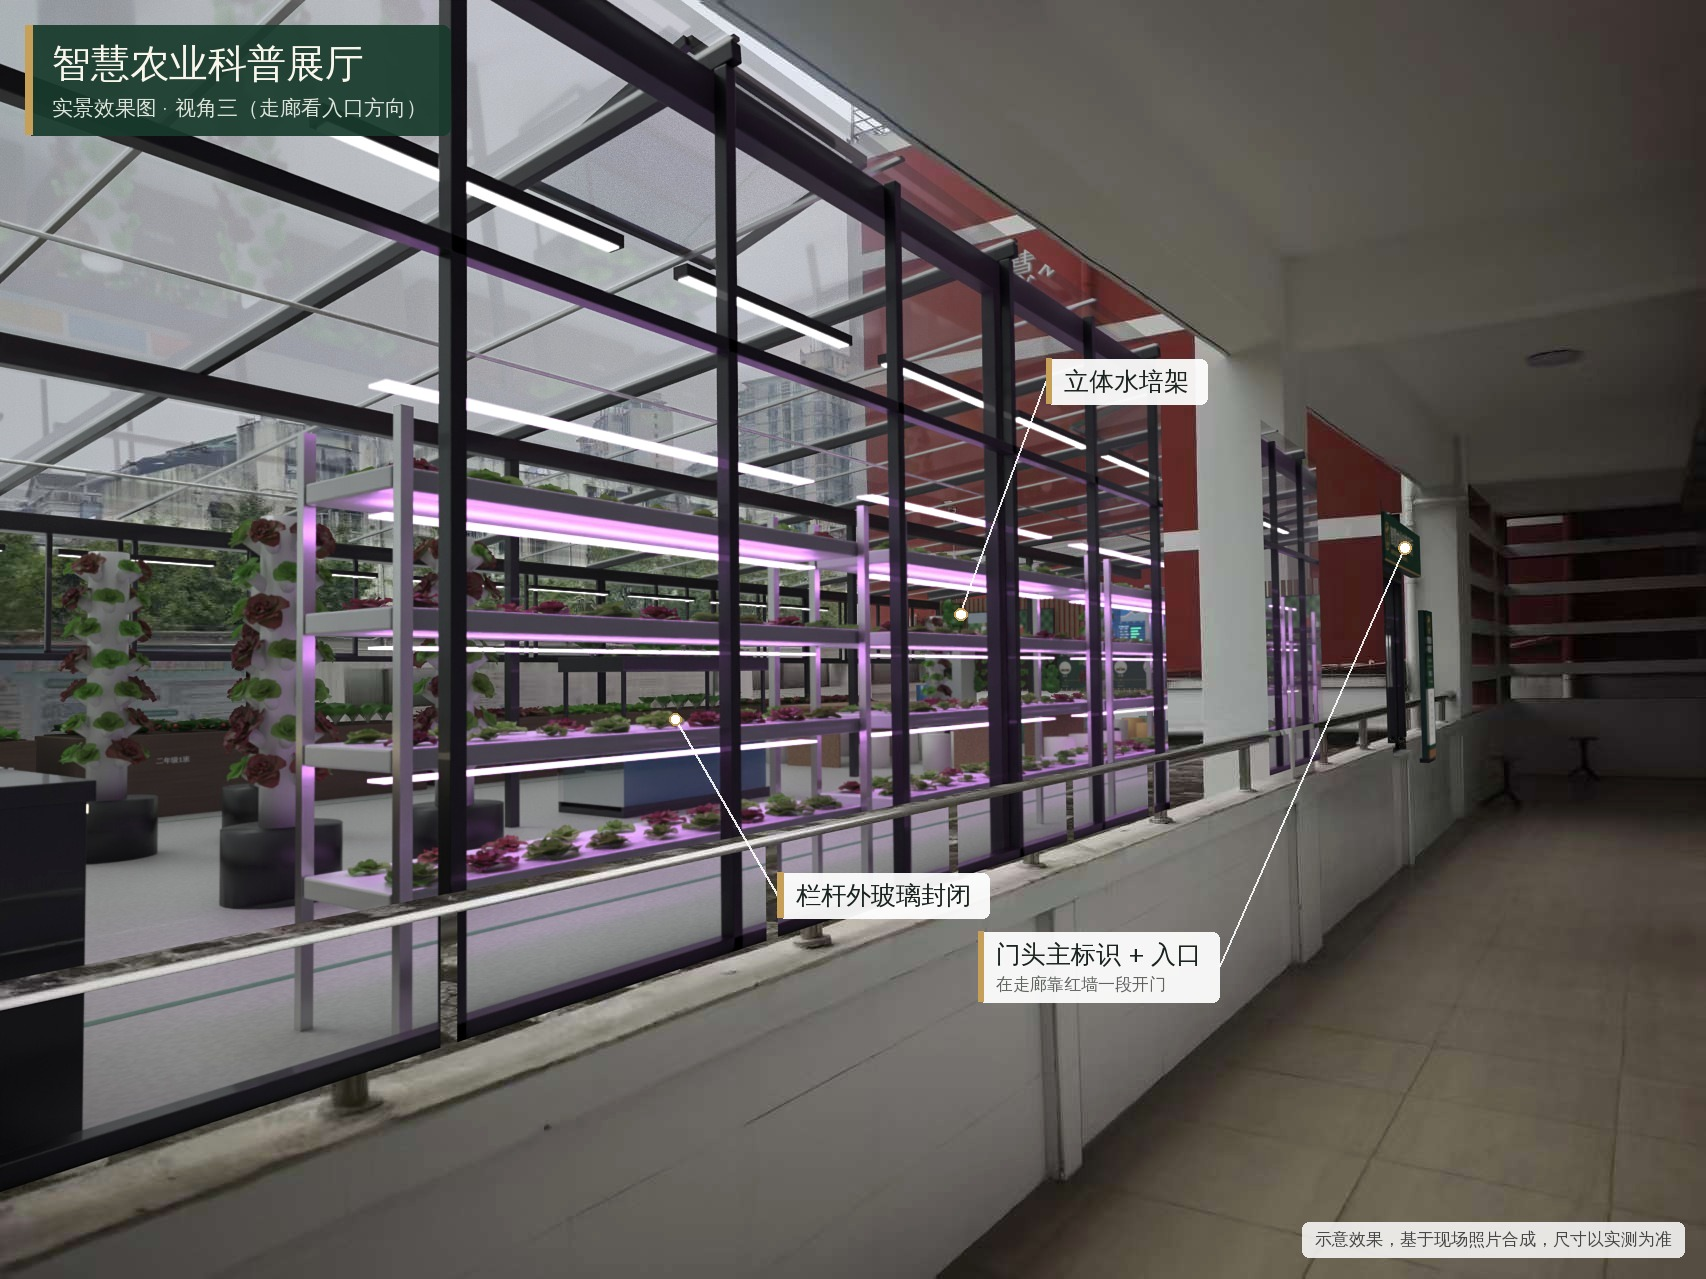
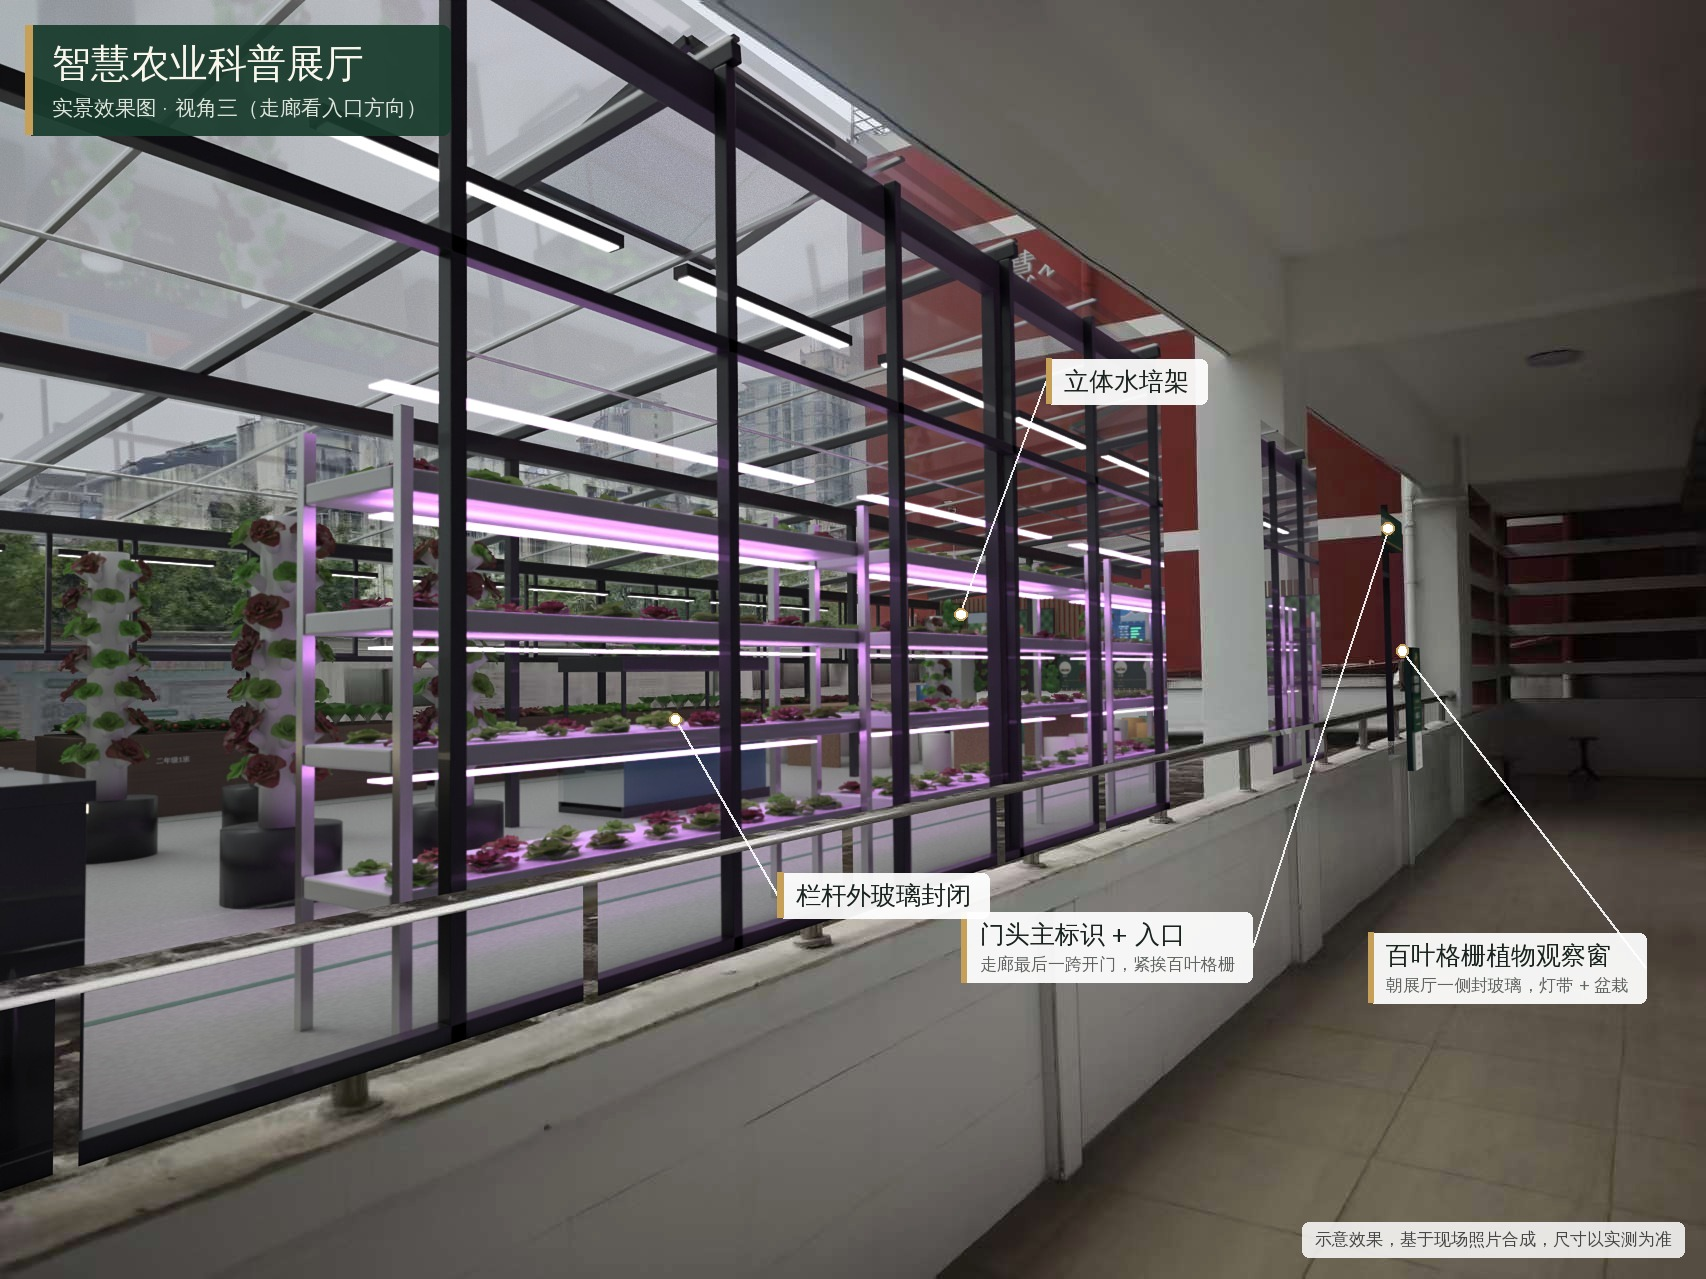
Rebuild 3D scene for the confirmed site layout
Last corridor pier at ~15.4 m with the louver section running to the
red wall (sides facing the hall, glazed on the hall side, LED strips and
potted plants), door moved to the bay before the pier with the fascia
and totem, raised platform with the other terrace, existing steel steps
and sliding gate beyond it. Re-render the photomontages, entrance,
interior, aerial and plan views; update captions, README and legend.

Claude-Session: https://claude.ai/code/session_01QT7MPbxVKdSTvMRYR4CWnz

diff --git a/smart-farm/v2/scene_v2.py b/smart-farm/v2/scene_v2.py
@@ -39,8 +39,13 @@ TEX2 = os.path.join(HERE, "tex")
 CAL = json.load(open(os.path.join(HERE, "calib.json")))
 L, W, K = 17.8, 8.5, 0.9
 Z_HI, Z_LO = 3.35, 2.6                   # roof height at corridor side (under the corridor beam) / street side
-COLS = [-3.0, 7.0, 12.0, 17.05]          # corridor columns (x), located from the corridor photos
-DOOR = (14.6, 16.1)                      # door cut into the corridor parapet (client's mark)
+ALC = 2.4                                # louver section at the corridor end; its end is in line with the red wall
+PIER = L - ALC                           # last corridor pier (terrace-side photo), louvers run from here to L
+COLS = [-3.0, 7.0, 12.0, PIER]           # corridor columns (x), located from the corridor photos
+DOOR = (PIER - 1.85, PIER - 0.35)        # door in the last bay, right next to the louver section
+PW = 6.0                                 # raised platform width (estimate); another terrace lies beyond it
+XS = -PW - 14.0                          # how far the existing site is modelled towards the other terrace
+GATE = (-PW - 1.9, -PW - 0.3)            # existing sliding gate + stainless arch onto the other terrace
 HC = 0.35                                # corridor parapet top above the terrace (photos: 0.2-0.45)
 BEAM = 3.45                              # underside of the corridor edge beam
 PHASE1_X = 11.8                          # phase 1 = x 11.8..17.8 (6.0 x 8.5 = 51 m2)
@@ -123,7 +128,7 @@ def build_existing():
     tiles, white, red, caps, rails, conc, floor_c = MB(), MB(), MB(), MB(), MB(), MB(), MB()
     # corridor parapet with the new door gap, coping and railing
     cf = HC - 0.65                                   # corridor floor level
-    for a, b in ((-8.0, DOOR[0]), (DOOR[1], L)):
+    for a, b in ((XS, GATE[0]), (GATE[1], DOOR[0]), (DOOR[1], PIER - 0.25)):
         tiles.box(a, b, -0.25, 0.0, cf - 0.3, HC - 0.05)
         caps.box(a, b, -0.28, 0.03, HC - 0.05, HC)
         x = a + 0.3
@@ -134,39 +139,72 @@ def build_existing():
     for cx in COLS:
         white.box(cx - 0.25, cx + 0.25, -0.55, 0.0, cf, BEAM)
     # corridor floor, ceiling beam and slab, inner wall
-    floor_c.box(-8.0, L, -2.9, -0.25, cf - 0.2, cf)
-    white.box(-8.0, L, -0.55, 0.0, BEAM, BEAM + 0.5)
-    white.box(-8.0, L, -2.9, -0.25, BEAM + 0.35, BEAM + 0.5)
-    white.box(-8.0, L, -3.15, -2.9, cf, BEAM + 0.35)
+    floor_c.box(XS, L, -2.9, -0.25, cf - 0.2, cf)
+    white.box(XS, L + 0.25, -0.55, 0.0, BEAM, BEAM + 0.5)
+    white.box(XS, L + 0.25, -2.9, -0.25, BEAM + 0.35, BEAM + 0.5)
+    white.box(XS, L + 0.25, -3.15, -2.9, cf, BEAM + 0.35)
     # upper floors: red-band parapets like the photos
     for k in (1, 2):
         z = BEAM + 0.5 + (k - 1) * 3.4
-        red.box(-8.0, L, -0.3, 0.0, z, z + 0.95)
-        caps.box(-8.0, L, -0.33, 0.03, z + 0.95, z + 1.02)
-        white.box(-8.0, L, -0.55, 0.0, z + 2.85, z + 3.4)
-        white.box(-8.0, L, -3.15, -2.9, z, z + 3.4)
-        white.box(-8.0, L, -2.9, -0.3, z + 3.25, z + 3.4)
-    white.box(-8.0, L, -9.0, -3.15, 0.0, 10.55)
+        red.box(XS, PIER, -0.3, 0.0, z, z + 0.95)
+        caps.box(XS, PIER, -0.33, 0.03, z + 0.95, z + 1.02)
+        white.box(XS, L + 0.25, -0.55, 0.0, z + 2.85, z + 3.4)
+        white.box(XS, L + 0.25, -3.15, -2.9, z, z + 3.4)
+        white.box(XS, L + 0.25, -2.9, -0.3, z + 3.25, z + 3.4)
+    white.box(XS, L + 0.25, -9.0, -3.15, 0.0, 10.55)
+    # grey slogan cladding above the louver section (terrace-side photo)
+    caps.box(PIER + 0.25, L, -0.12, 0.0, BEAM + 0.5, 10.55)
     # street parapet with piers
-    tiles.box(-8.0, L, W, W + 0.25, 0.0, 1.35)
-    caps.box(-8.0, L, W - 0.02, W + 0.27, 1.35, 1.4)
-    x = -7.5
+    tiles.box(XS, L, W, W + 0.25, 0.0, 1.35)
+    caps.box(XS, L, W - 0.02, W + 0.27, 1.35, 1.4)
+    x = XS + 0.5
     while x < L and MODE == "3d":
         white.box(x, x + 0.3, W, W + 0.25, 1.4, 1.75)
         x += 3.0
-    # red block at the end + white upstand
-    red.box(L, L + 7.0, -9.0, W + 3.0, 0.0, 9.8)
+    # red block: its face is the hall's end wall; on the corridor side it stands ~1 m behind the end louvers
+    red.box(L, L + 7.0, 0.0, W + 3.0, 0.0, 9.8)
+    red.box(L + 1.2, L + 7.0, -9.0, 0.0, 0.0, 9.8)
     for z in (2.85, 5.95, 7.85):
-        caps.box(L - 0.02, L + 7.0, -9.0, W + 3.0, z, z + 0.16)
-    white.box(L - 0.22, L, 0.0, W, 0.0, 0.8)
-    # raised platform beyond the kerb
-    conc.box(-7.0, 0.0, -0.25, W + 0.25, 0.0, K)
-    # terrace slab (old pavers live outside the new floor, which covers the hall)
-    conc.box(-8.0, L + 7.0, -9.0, W + 3.0, -0.3, -0.001)
+        caps.box(L - 0.02, L + 7.0, 0.0, W + 3.0, z, z + 0.16)
+        caps.box(L + 1.18, L + 7.0, -9.0, 0.0, z, z + 0.16)
+    white.box(L - 0.22, L, 0.8, W, 0.0, 0.8)
+    red.box(L, L + 0.25, 0.0, 0.8, 0.0, BEAM + 0.5)            # red frame at the louver/red-wall corner
+    # louver section at the corridor end: solid sill + horizontal fins, side (facing the hall) and end
+    louv = MB()
+    for (x0, x1, y0, y1) in ((PIER + 0.25, L, -0.25, 0.0), (L, L + 0.25, -2.9, -0.25)):
+        tiles.box(x0, x1, y0, y1, cf - 0.3, cf + 0.85)
+        caps.box(x0, x1, y0 - 0.02, y1 + 0.02, cf + 0.85, cf + 0.9)
+        z = cf + 1.2
+        while z < BEAM - 0.1:
+            louv.box(x0, x1, y0, y1, z, z + 0.09)
+            z += 0.42
+    for (x0, y0, y1) in ((PIER + 0.25, -0.25, 0.0), ((PIER + 0.25 + L) / 2 - 0.08, -0.25, 0.0), (L - 0.16, -0.25, 0.0)):
+        red.box(x0, x0 + 0.16, y0, y1, cf + 0.9, BEAM)
+    red.box(L, L + 0.25, -1.65, -1.5, cf + 0.9, BEAM)
+    # raised platform beyond the kerb, the other terrace beyond it, existing steps and gate
+    conc.box(-PW, 0.0, -0.25, W + 0.25, 0.0, K)
+    conc.box(XS, L + 7.0, -9.0, W + 3.0, -0.3, -0.001)
+    steps = MB()
+    for k, (h, d) in enumerate(((0.3, 0.9), (0.6, 0.6), (0.9, 0.3))):
+        steps.box(-PW - d, -PW, 1.6, 2.8, 0.0, h - 0.02)
+    gate = MB()
+    gate.box(GATE[0], GATE[1], -0.15, -0.1, cf + 0.05, HC + 0.35)
+    for k in range(9):
+        gx = GATE[0] + 0.1 + k * (GATE[1] - GATE[0] - 0.2) / 8
+        gate.box(gx - 0.012, gx + 0.012, -0.14, -0.11, cf + 0.05, HC + 0.35)
+    ra = (GATE[1] - GATE[0]) / 2
+    gc = (GATE[0] + GATE[1]) / 2
+    for r in (ra, ra - 0.12):
+        pts = [(gc + r * math.cos(math.pi * t / 16), -0.12, HC + 1.4 + r * math.sin(math.pi * t / 16)) for t in range(17)]
+        for a, b in zip(pts, pts[1:]):
+            gate.tube(a, b, 0.018, 8)
+        gate.tube((gc - r, -0.12, HC), (gc - r, -0.12, HC + 1.4), 0.018, 8)
+        gate.tube((gc + r, -0.12, HC), (gc + r, -0.12, HC + 1.4), 0.018, 8)
     objs = [tiles.build("parapet_tiles", "wall_tile", coll=coll), white.build("white_walls", "paint_white", coll=coll),
             red.build("red_walls", "paint_red", coll=coll), caps.build("caps", "cap_stone", coll=coll),
             rails.build("rails", "steel", smooth=True, coll=coll), conc.build("platform", "concrete", coll=coll),
-            floor_c.build("corridor_floor", "floor_tile", coll=coll)]
+            floor_c.build("corridor_floor", "floor_tile", coll=coll), louv.build("louver_fins", "paint_white", coll=coll),
+            steps.build("old_steps", "wood_slat", coll=coll), gate.build("old_gate", "steel", coll=coll)]
     # bulletin boards on the street parapet (existing, kept)
     for i, cx in enumerate((3.0, 9.5)):
         objs.append(plane_uv(f"board{i}", (cx, W - 0.01, 0.85), (2.8, 0.9), (math.radians(90), 0, 0),
@@ -176,7 +214,7 @@ def build_existing():
     if MODE == "3d":
         build_context()
         cf = HC - 0.65
-        for x in (9.5, 14.5, 19.0):
+        for x in (9.5, 14.0, 16.6):
             ld = bpy.data.lights.new("corr", "AREA")
             ld.size = 0.4
             ld.energy = 120
@@ -279,14 +317,21 @@ def build_shell():
     gl, gf = MB(), MB()
     # corridor side: glass sealing the railing, coping to roof (door bay left open for the door)
     yg = 0.04
-    segs = [(0.0, DOOR[0] - 0.05), (DOOR[1] + 0.05, L - 0.02)]
+    segs = [(0.0, DOOR[0] - 0.05), (DOOR[1] + 0.05, PIER - 0.25)]
     for a, b in segs:
         gl.poly([(a, yg, HC), (b, yg, HC), (b, yg, roof_z(yg)), (a, yg, roof_z(yg))])
         gf.box(a, b, yg - 0.03, yg + 0.03, HC, HC + 0.05)
         gf.box(a, b, yg - 0.03, yg + 0.03, 2.3, 2.35)
     for x in BARS:
-        if not (DOOR[0] - 0.1 < x < DOOR[1] + 0.1):
+        if not (DOOR[0] - 0.1 < x < DOOR[1] + 0.1) and x < PIER - 0.25:
             gf.box(x - 0.025, x + 0.025, yg - 0.03, yg + 0.03, HC, roof_z(yg))
+    # louver section: glass on the hall side (client: seal the louvers, LED strips + potted plants)
+    yl = 0.12
+    gl.poly([(PIER + 0.25, yl, 0.0), (L - 0.02, yl, 0.0), (L - 0.02, yl, roof_z(yl)), (PIER + 0.25, yl, roof_z(yl))])
+    for x in (PIER + 0.25, (PIER + 0.25 + L) / 2, L - 0.05):
+        gf.box(x - 0.025, x + 0.025, yl - 0.03, yl + 0.03, 0.0, roof_z(yl))
+    for z in (0.0, 2.35):
+        gf.box(PIER + 0.25, L - 0.02, yl - 0.03, yl + 0.03, z, z + 0.05)
     # threshold step from the corridor up into the hall
     stp = MB()
     stp.box(DOOR[0], DOOR[1], -0.3, 0.3, HC - 0.65, 0.0)
@@ -345,17 +390,19 @@ def build_shell():
 def build_signage():
     coll = collection("signage")
     sg = MB()
-    x0, x1 = 13.7, 17.1
-    sg.box(x0, x1, -0.36, -0.22, 2.48, 3.08)
+    x0, x1 = DOOR[0] - 0.65, PIER - 0.3                # between the column at 12.0 and the last pier
+    fh = (x1 - x0) / 6.0
+    sg.box(x0, x1, -0.36, -0.22, 3.1 - fh - 0.04, 3.1)
     sg.build("fascia", "sign_green", coll=coll, bevel=0.01)
-    plane_uv("fascia_face", ((x0 + x1) / 2, -0.362, 2.78), (x1 - x0, 0.6), (math.radians(90), 0, 0), "fascia", coll)
+    plane_uv("fascia_face", ((x0 + x1) / 2, -0.362, 3.08 - fh / 2), (x1 - x0, fh), (math.radians(90), 0, 0), "fascia", coll)
     # totem in the corridor beside the door
     tb = MB()
-    tb.box(13.85, 14.45, -0.75, -0.65, 0.0, 0.05)
+    tx = DOOR[0] - 0.6
+    tb.box(tx - 0.3, tx + 0.3, -0.75, -0.65, HC - 0.65, HC - 0.6)
     tb.build("totem_base", "frame", coll=coll)
-    plane_uv("totem", (14.15, -0.76, 0.95), (0.6, 1.8), (math.radians(90), 0, 0), "totem", coll)
+    plane_uv("totem", (tx, -0.76, HC - 0.6 + 0.9), (0.6, 1.8), (math.radians(90), 0, 0), "totem", coll)
     bk = MB()
-    bk.box(13.85, 14.45, -0.74, -0.68, 0.05, 1.85)
+    bk.box(tx - 0.3, tx + 0.3, -0.74, -0.68, HC - 0.6, HC - 0.6 + 1.8)
     bk.build("totem_back", "sign_green", coll=coll)
     # big letters on the red wall above the roof (face -x, toward the platform)
     text("智慧农业科普展厅", S.CJK_FONT, 0.85, (L - 0.06, 4.7, 9.0), (math.radians(90), 0, math.radians(-90)),
@@ -614,6 +661,35 @@ def build_interior(P):
         link(lo, coll)
 
 
+def build_louver_display(P):
+    """Potted plants on the louver sill/fins and LED strips under the fins (client's plant-observation window)."""
+    coll = collection("louver_display")
+    rnd = random.Random(21)
+    cf = HC - 0.65
+    pots, led = MB(), MB()
+    levels = [cf + 0.9, cf + 1.2 + 0.42 + 0.09, cf + 1.2 + 0.84 + 0.09]
+    runs = [("side", PIER + 0.45, L - 0.25), ("end", -2.7, -0.45)]
+    for kind, a, b in runs:
+        n = int((b - a) / 0.3)
+        for lv in levels:
+            for k in range(n):
+                t = a + (k + 0.5) * (b - a) / n
+                x, y = (t, -0.12) if kind == "side" else (L + 0.12, t)
+                r = rnd.uniform(0.055, 0.07)
+                pots.tube((x, y, lv), (x, y, lv + 0.11), r * 0.8, 14, r1=r)
+                instance(rnd.choice(P["small"] + P["fern"] + P["red"]), "lp", (x, y, lv + 0.1), (0, 0, rnd.uniform(0, 6)),
+                         rnd.uniform(0.7, 0.95), coll)
+        z = cf + 1.2
+        while z < BEAM - 0.1:
+            if kind == "side":
+                led.box(a - 0.15, b + 0.15, -0.2, -0.17, z - 0.012, z)
+            else:
+                led.box(L + 0.03, L + 0.06, a - 0.15, b + 0.15, z - 0.012, z)
+            z += 0.42
+    pots.build("louver_pots", "white_plastic", smooth=True, coll=coll)
+    led.build("louver_led", "led_warm", coll=coll)
+
+
 # ---------------------------------------------------------------- world / cameras
 def world_overcast(strength=1.0, sun=0.6):
     sc = bpy.context.scene
@@ -661,12 +737,12 @@ def calibrated_camera(name):
 
 VIEWS = {
     # name: (location, target, lens, shift_y)
-    "interior_in": ((16.4, 0.9, 1.55), (6.0, 6.2, 1.25), 16.0, 0.04),
+    "interior_in": ((DOOR[0] + 0.75, 0.9, 1.55), (4.0, 6.2, 1.25), 16.0, 0.04),
     "interior_wall": ((8.6, 6.6, 1.6), (17.8, 3.0, 1.5), 17.0, 0.06),
     "interior_kerb": ((5.2, 1.6, 1.5), (0.0, 5.8, 0.8), 18.0, 0.02),
     "germ": ((1.75, 1.35, 1.2), (0.3, 3.9, 0.55), 22.0, 0.0),
     "aerial": ((-7.0, 21.0, 17.5), (8.6, 3.2, 0.0), 30.0, 0.0),
-    "corridor": ((14.2, -2.75, 1.25), (15.6, 0.0, 1.25), 15.0, 0.12),
+    "corridor": ((DOOR[0] - 1.0, -2.7, 1.2), (PIER + 0.4, 0.3, 1.2), 15.0, 0.12),
 }
 
 
@@ -723,7 +799,10 @@ def main():
     build_existing()
     roof_coll = build_shell()
     build_signage()
-    build_interior(plant_meshes())
+    P = plant_meshes()
+    build_interior(P)
+    if MODE == "3d":            # photo-matched alignment at the far corridor end is too loose for small props
+        build_louver_display(P)
     sc = bpy.context.scene
     S.setup_render((960, 640), args.samples)
     if MODE == "montage":

diff --git a/smart-farm/v2/annotate_v2.py b/smart-farm/v2/annotate_v2.py
@@ -107,14 +107,15 @@ MONTAGES = {
         ((0.3, 4.2, 0.92), "种子萌发观察窗", "", (0.02, -0.25)),
     ], "示意效果，基于现场照片合成，尺寸以实测为准"),
     "p_corr_far": ("实景效果图 · 视角三（走廊看入口方向）", [
-        ((15.35, -0.36, 2.78), "门头主标识 + 入口", "在走廊靠红墙一段开门", (-0.25, 0.30)),
+        ((14.0, -0.36, 2.9), "门头主标识 + 入口", "走廊最后一跨开门，紧挨百叶格栅", (-0.25, 0.30)),
+        ((16.6, -0.12, 1.4), "百叶格栅植物观察窗", "朝展厅一侧封玻璃，灯带 + 盆栽", (-0.02, 0.22)),
         ((5.0, 0.65, 1.5), "立体水培架", "", (0.05, -0.20)),
         ((2.0, 0.04, 1.0), "栏杆外玻璃封闭", "", (0.06, 0.12)),
     ], "示意效果，基于现场照片合成，尺寸以实测为准"),
 }
 
 VIEWS3D = {
-    "corridor": "效果图 · 走廊入口（门头 + 入口立牌）",
+    "corridor": "效果图 · 走廊入口（右侧为百叶格栅植物观察窗）",
     "interior_in": "室内效果图 · 从入口看向坎边",
     "interior_wall": "室内效果图 · 红墙展示墙与讲解区",
     "germ": "室内效果图 · 种子萌发观察窗",
@@ -128,8 +129,9 @@ ORDER = [("p_platform", "01"), ("p_corr_across", "02"), ("p_corr_far", "03"), ("
 
 
 LEGEND = [
-    ((15.35, -0.45), "入口：走廊靠红墙一段开门，双开玻璃门 + 门头标识"),
-    ((14.15, -0.95), "入口立牌（走廊侧）"),
+    ((14.3, -0.45), "入口：走廊最后一跨开门（紧挨格栅），双开玻璃门 + 门头标识"),
+    ((12.95, -0.95), "入口立牌（走廊侧）"),
+    ((16.6, -0.12), "百叶格栅：朝展厅一侧封玻璃，灯带 + 盆栽观察"),
     ((4.0, 0.0), "走廊栏杆外加玻璃，封到屋面"),
     ((6.0, W + 0.15), "沿街推拉玻璃窗"),
     ((0.2, 4.25), "种子萌发观察窗（坎内玻璃封面，与坎齐平）"),

diff --git a/smart-farm/v2/README.md b/smart-farm/v2/README.md
@@ -14,7 +14,7 @@
 | 01 | `renders/final/01_p_platform.jpg` | 实景合成·视角一：站在抬高平台上看展厅（客户拍的照片） |
 | 02 | `renders/final/02_p_corr_across.jpg` | 实景合成·视角二：走廊看展厅 |
 | 03 | `renders/final/03_p_corr_far.jpg` | 实景合成·视角三：走廊看入口方向 |
-| 04 | `renders/final/04_corridor.jpg` | 走廊入口：门、门头标识、入口立牌 |
+| 04 | `renders/final/04_corridor.jpg` | 走廊入口：门、门头标识、入口立牌，右侧是百叶格栅观察窗 |
 | 05 | `renders/final/05_interior_in.jpg` | 室内：从入口看向坎边 |
 | 06 | `renders/final/06_interior_wall.jpg` | 室内：红墙展示墙与讲解区 |
 | 07 | `renders/final/07_germ.jpg` | 室内：种子萌发观察窗 |
@@ -22,6 +22,7 @@
 | 09 | `renders/final/09_aerial.jpg` | 鸟瞰 |
 | 10 | `renders/final/10_plan.jpg` | 平面布置图（15 项编号、尺寸、一期线） |
 | 11 | `renders/final/11_signage.jpg` | 室外标识设计：门头、入口立牌、红墙大字 |
+| — | `renders/plan2d.jpg`、`renders/plan2d.dxf` | 二维平面（现场关系确认稿），DXF 单位毫米、分图层，可在 CAD 里改 |
 
 `renders/final/` 是全部原图，不带水印。
 
@@ -40,12 +41,12 @@
 | 9 | 屋面"低 / 高"手写标注（图 26） | 单坡屋面：走廊侧高 3.35 m（收在走廊梁下），沿街侧低 2.6 m，雨水排向沿街天沟 | 01、02 |
 | 10 | "旁边能否用滑动玻璃"（23:44） | 沿街一侧整排铝合金推拉窗 | 01 |
 | 11 | "不锈钢栏杆用玻璃封起来"（1:33） | 保留原栏杆，栏杆外加钢化玻璃一直封到屋面，从走廊能直接看到水培架 | 02、03 |
-| 12 | "这个位置开门"（图 36） | 走廊靠红墙那一段栏板开 1.5 m 双开玻璃门，门内一步台阶 | 04、10 |
+| 12 | "这个位置开门"（图 36） | 走廊最后一跨（紧挨百叶格栅）开 1.5 m 双开玻璃门，门内一步台阶 | 04、10 |
 | 13 | "坎内用玻璃封个侧面与坎一样高，里面种植种子萌发过程"（1:33） | 坎边整排种子萌发观察窗，玻璃面与坎齐平，分 6 段（第 1/3/5/7/15/30 天），土里的根看得见，上沿灯带 | 07 |
 | 14 | "这三个面能否把墙设计出来，红墙这一侧""用我给的图片"（20:38–20:48） | 红墙内侧做木格栅、数据大屏、时间轴、照片墙、植物墙；照片墙留了 6 个位置，等客户发图替换；红墙外侧上方做白色大字 | 06、01 |
 | 15 | "室外牌子设计一下"（23:45） | 门头发光字、入口立牌、红墙大字三件，附尺寸、材料和标准色 | 11、04 |
 | 16 | "水印字改成智慧农业设计，不带公司名称"（23:46） | 出图不带水印，也没有公司名；水印由你们自己加 | — |
-| 17 | 走廊尽头百叶窗："外面用玻璃封起来，里面装上灯带，做盆栽植物观察"（图 38） | 外侧封玻璃，每道横板下装暖光灯带，横板上摆盆栽，侧墙挂"植物观察窗"牌（前设计师拒绝做的部分） | 08 |
+| 17 | 走廊尽头百叶窗："外面用玻璃封起来，里面装上灯带，做盆栽植物观察"（图 38） | 格栅侧面正对展厅，玻璃封在展厅一侧；每道横板下装暖光灯带，横板上摆盆栽，展厅里外都能看到（前设计师拒绝做的部分） | 04、08 |
 | 18 | 外围区域（2:37） | 客户说转弯部分自己设计；抬高平台可以做户外课堂，本版没出图，需要可以补 | — |
 
 ## 面积和预算
@@ -105,7 +106,7 @@
 
 ## 照片里推算出来、需要现场确认的
 
-1. **17.8 m 怎么量的**：本方案按"坎到红墙"理解。照片反算的透视与这个尺寸大致吻合，但只是推算。
+1. **17.8 m 怎么量的**：本方案按"坎到红墙"理解，照片反算的透视与这个尺寸吻合。走廊最后一根柱约在 15.4 m，柱到红墙这 2.4 m 是百叶格栅段（站在高台上拍的照片能看到格栅侧面朝露台），都需要现场复尺。
 2. **走廊比露台低**：两张走廊照片反算，栏板顶只比露台高 0.2–0.45 m，说明露台比走廊地面高约 0.3 m。门内要做一步台阶或短坡道，现场量了再定。
 3. **坎高**：按约 0.9 m 画。观察窗高度跟坎走，以实测为准。
 4. **屋面荷载与防水**：
@@ -115,6 +116,7 @@
    - 红墙一侧做泛水，不破坏原墙。
 5. **走廊梁底高度**：屋面高边收在梁下，按 3.45 m 估算，现场复核。
 6. **红墙照片素材**：客户说用他的图片，照片墙现在是占位图，收到后替换。
+7. **高台与另一块空地**：高台两侧各有一块空地，展厅只在红墙这一侧。高台宽按约 6 m 画；另一块空地的长度、要不要一起设计，待定。
 
 ## 重新出图
 
